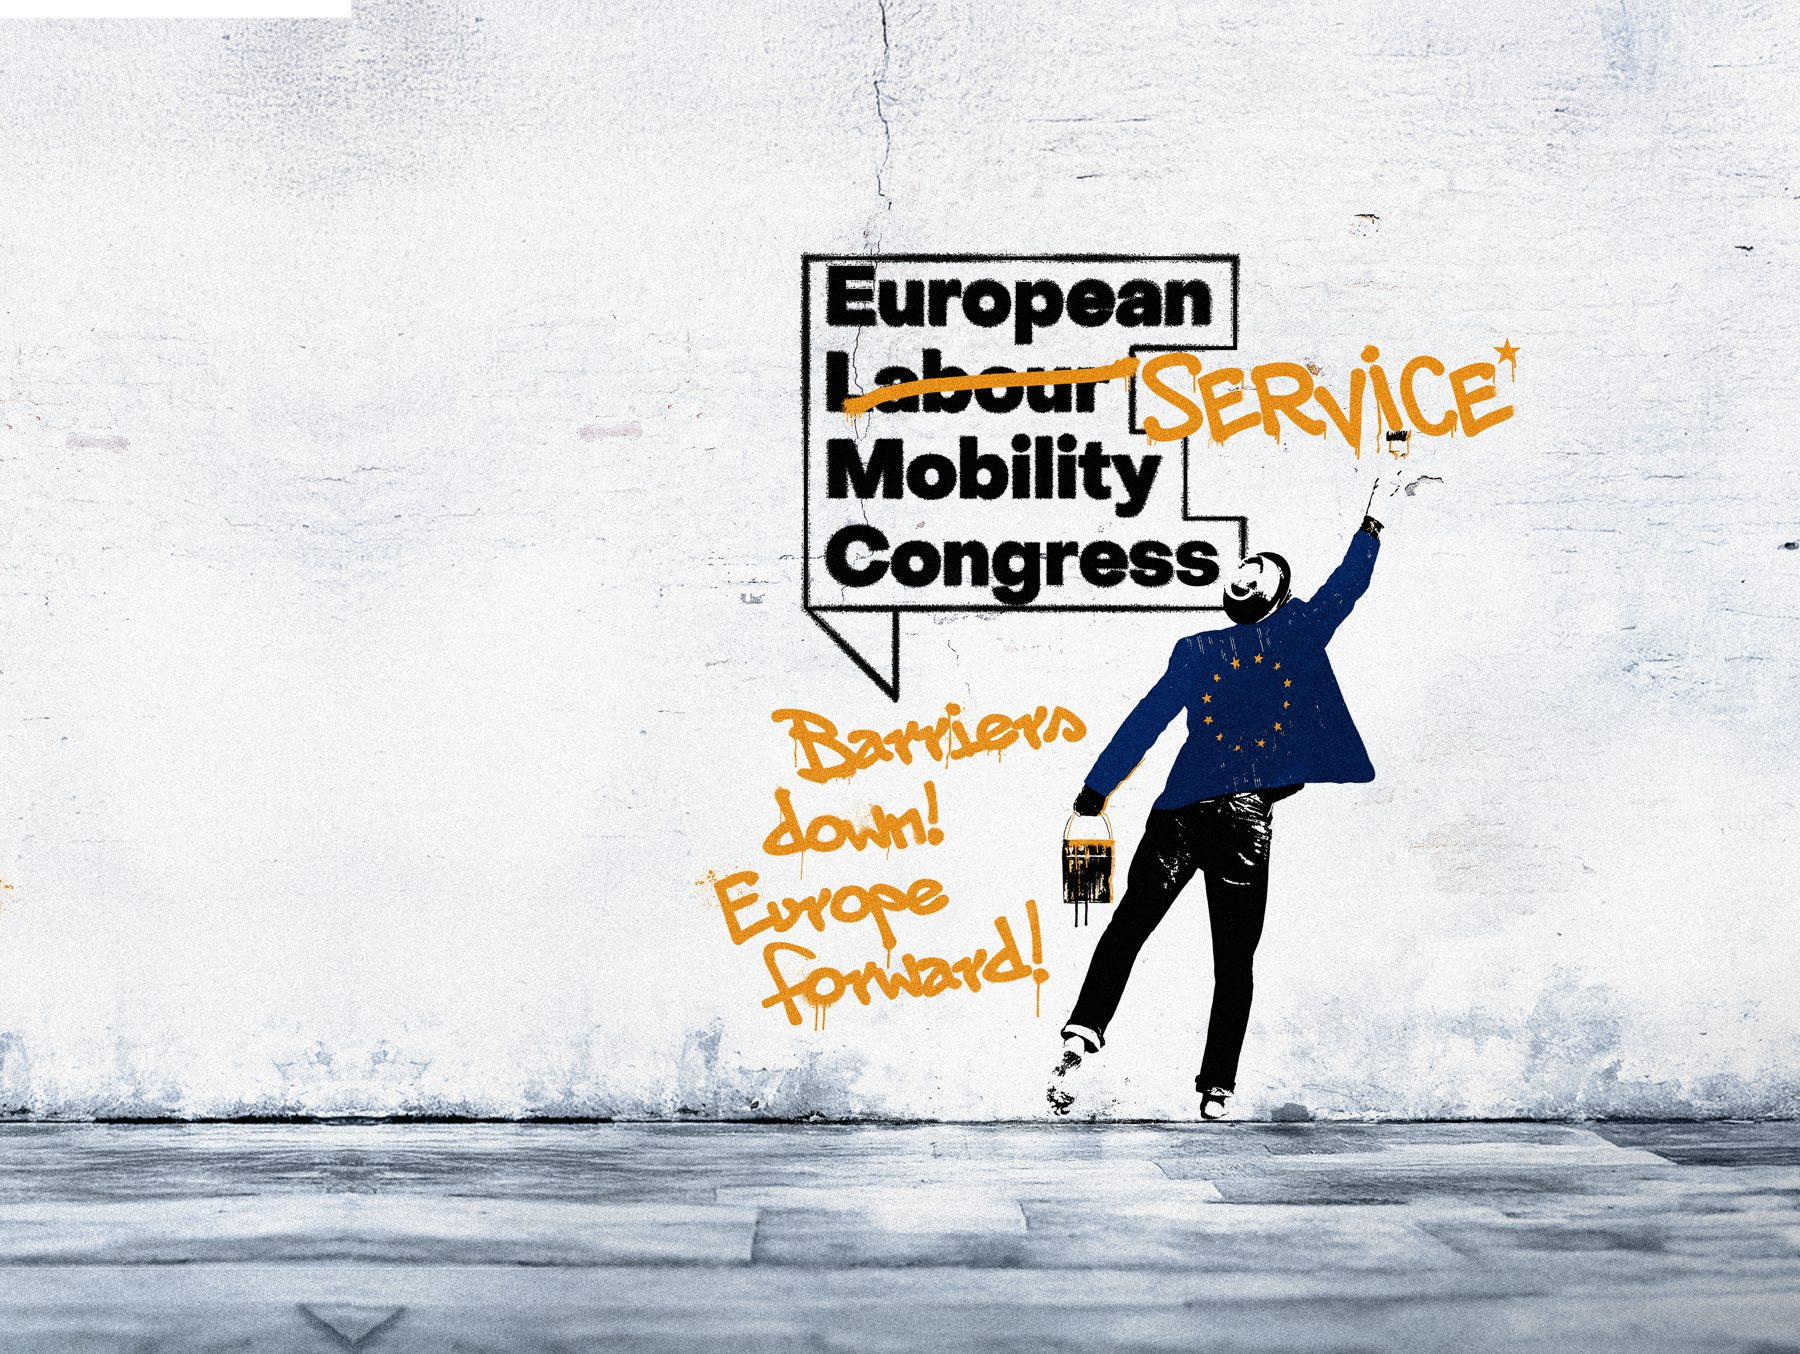
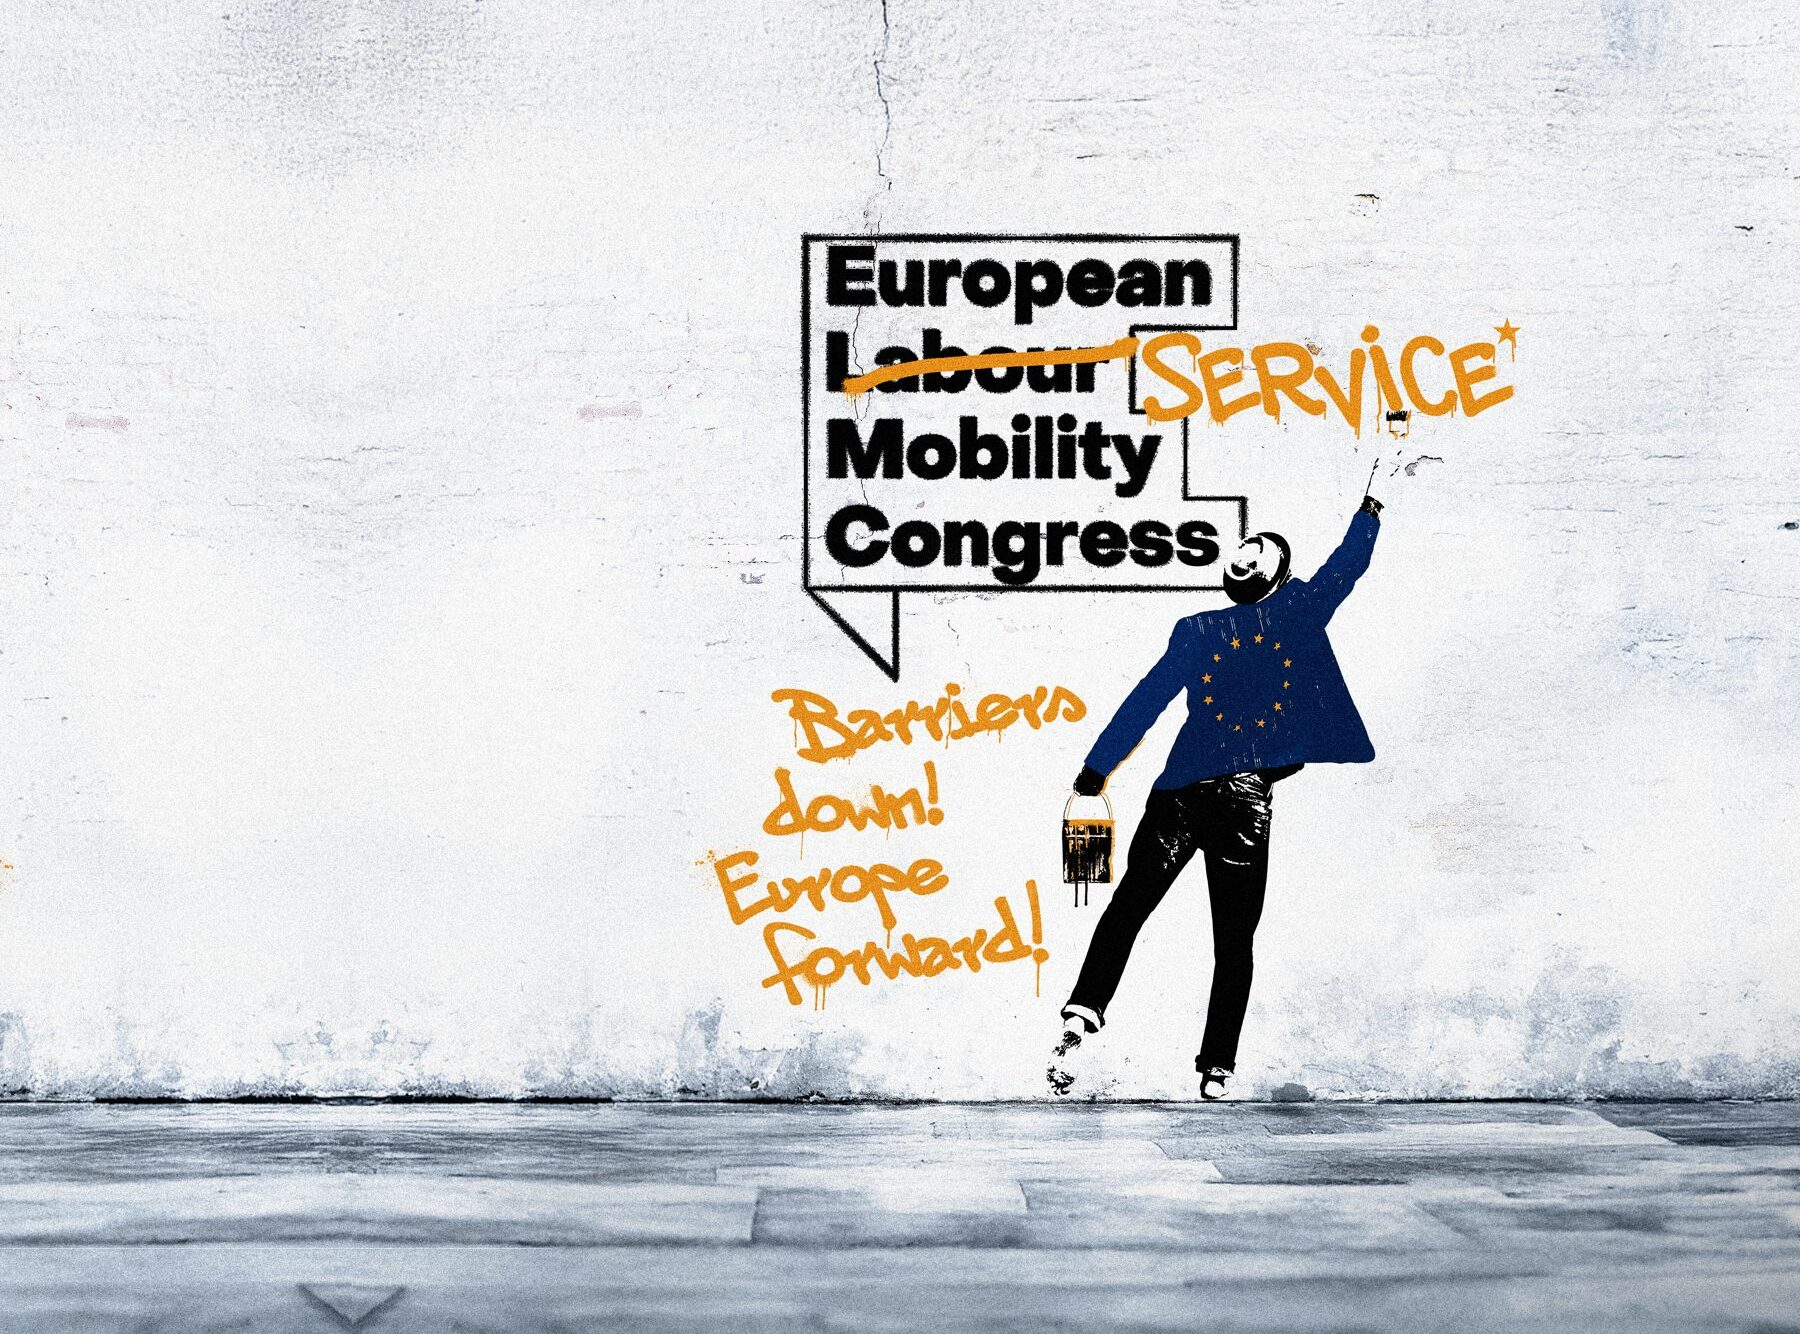
Szczegoly widoczne dla odwiedzajacych i wyszukiwarek
- Mural: WebP 57 kB na telefonie / 162 kB na komputerze zamiast 546 kB (JPG zostaje
  jako zapas, tez odchudzony); przyciety bialy pasek w lewym gornym rogu grafiki.
- Ikona strony (karta przegladarki, ekran telefonu, wyniki Google): logo na bialym tle.
- Karta do udostepniania 1200x630 (logo, haslo, postac z muralu) + wymiary, alt, locale,
  nazwa serwisu, karta Twittera/X.
- Opis dla Google krotszy i konkretny (osobny tekst PL/EN zamiast wstepu z formularza).
- Dane strukturalne: WebSite + wydawca ELMI (bez Event - brak daty i miejsca).
- Mapa strony i strony autorow nie pokazuja juz nazw kont administratorow.

diff --git a/theme/style.css b/theme/style.css
@@ -3,7 +3,7 @@ Theme Name: ELMC 2027
 Theme URI: https://elmc.eu
 Author: European Labour Mobility Institute
 Description: Motyw Europejskiego Kongresu Mobilności Pracy 2027 (dev.ekmp.pl). Dwujęzyczny PL/EN.
-Version: 0.7.0
+Version: 0.8.0
 Requires at least: 6.4
 Requires PHP: 8.0
 Text Domain: elmc2027

diff --git a/theme/inc/i18n.php b/theme/inc/i18n.php
@@ -114,12 +114,36 @@ add_filter( 'pre_get_document_title', function ( $title ) {
 add_action( 'wp_head', function () {
 	$is_home = is_front_page() || 'en' === get_query_var( 'elmc_lang' ) || 'teaser' === get_query_var( 'elmc_view' );
 	if ( $is_home ) {
-		printf( '<meta name="description" content="%s">' . "\n", esc_attr( elmc2027_t( 'heroLead' ) ) );
+		$lang = elmc2027_lang();
+		printf( '<meta name="description" content="%s">' . "\n", esc_attr( elmc2027_t( 'metaDesc' ) ) );
 		printf( '<meta property="og:title" content="%s">' . "\n", esc_attr( elmc2027_t( 'docTitle' ) ) );
-		printf( '<meta property="og:description" content="%s">' . "\n", esc_attr( elmc2027_t( 'heroLead' ) ) );
-		printf( '<meta property="og:image" content="%s">' . "\n", esc_url( get_template_directory_uri() . '/assets/img/kv-elmc.jpg' ) );
+		printf( '<meta property="og:description" content="%s">' . "\n", esc_attr( elmc2027_t( 'metaDesc' ) ) );
+		// Share card: 1200x630 crop of the mural (logo, slogan and the figure) - the size LinkedIn and Facebook expect.
+		printf( '<meta property="og:image" content="%s">' . "\n", esc_url( get_template_directory_uri() . '/assets/img/og-elmc.jpg' ) );
+		echo '<meta property="og:image:width" content="1200">' . "\n" . '<meta property="og:image:height" content="630">' . "\n";
+		printf( '<meta property="og:image:alt" content="%s">' . "\n", esc_attr( elmc2027_t( 'heroAlt' ) ) );
 		printf( '<meta property="og:url" content="%s">' . "\n", esc_url( elmc2027_page_url() ) );
 		echo '<meta property="og:type" content="website">' . "\n";
+		echo '<meta property="og:site_name" content="ELMC – European Labour Mobility Congress">' . "\n";
+		printf( '<meta property="og:locale" content="%s">' . "\n", 'en' === $lang ? 'en_GB' : 'pl_PL' );
+		printf( '<meta property="og:locale:alternate" content="%s">' . "\n", 'en' === $lang ? 'pl_PL' : 'en_GB' );
+		echo '<meta name="twitter:card" content="summary_large_image">' . "\n";
+		// Who stands behind the site, for search engines. No Event markup yet - it needs a date and a venue.
+		$data = array(
+			'@context'      => 'https://schema.org',
+			'@type'         => 'WebSite',
+			'name'          => 'European Labour Mobility Congress (ELMC)',
+			'alternateName' => 'Europejski Kongres Mobilności Pracy',
+			'url'           => elmc2027_home_url( 'pl' ),
+			'inLanguage'    => 'en' === $lang ? 'en' : 'pl',
+			'publisher'     => array(
+				'@type'         => 'Organization',
+				'name'          => 'European Labour Mobility Institute',
+				'alternateName' => 'Europejski Instytut Mobilności Pracy',
+				'url'           => 'https://labourinstitute.eu',
+			),
+		);
+		echo '<script type="application/ld+json">' . wp_json_encode( $data, JSON_UNESCAPED_UNICODE | JSON_UNESCAPED_SLASHES ) . '</script>' . "\n";
 	}
 	printf( '<link rel="alternate" hreflang="pl" href="%s">' . "\n", esc_url( elmc2027_page_url( 'pl' ) ) );
 	printf( '<link rel="alternate" hreflang="en" href="%s">' . "\n", esc_url( elmc2027_page_url( 'en' ) ) );

diff --git a/theme/functions.php b/theme/functions.php
@@ -47,6 +47,27 @@ add_action( 'wp_head', function () {
 	}
 }, 0 );
 
+// Icon in the browser tab, on phone home screens and next to the site in Google results
+// (the congress logo on white, so it stays visible in dark browser themes too).
+add_action( 'wp_head', function () {
+	$icons = get_template_directory_uri() . '/assets/icons/';
+	printf( '<link rel="icon" href="%s" sizes="48x48">' . "\n", esc_url( $icons . 'favicon.ico' ) );
+	printf( '<link rel="icon" type="image/png" sizes="32x32" href="%s">' . "\n", esc_url( $icons . 'favicon-32.png' ) );
+	printf( '<link rel="icon" type="image/png" sizes="192x192" href="%s">' . "\n", esc_url( $icons . 'icon-192.png' ) );
+	printf( '<link rel="apple-touch-icon" href="%s">' . "\n", esc_url( $icons . 'apple-touch-icon.png' ) );
+}, 2 );
+
+// The public sitemap and author pages would list the admin login names - keep both out.
+add_filter( 'wp_sitemaps_add_provider', function ( $provider, $name ) {
+	return 'users' === $name ? false : $provider;
+}, 10, 2 );
+add_action( 'template_redirect', function () {
+	if ( is_author() ) {
+		wp_safe_redirect( home_url( '/' ), 301 );
+		exit;
+	}
+} );
+
 /**
  * The building site must not show up in Google - otherwise dev.ekmp.pl would compete with
  * elmc.eu for the same text once the real address goes live. Applies only to this host.

diff --git a/theme/inc/copy.php b/theme/inc/copy.php
@@ -147,6 +147,7 @@ function elmc2027_copy( $lang = null ) {
 		'mailPrivacy'  => 'Jak przetwarzamy Twoje dane: ',
 		'mailSign'     => 'Europejski Kongres Mobilności Pracy',
 		'docTitle'     => 'ELMC 2027 – Europejski Kongres Mobilności Pracy',
+		'metaDesc'     => 'ELMC – Europejski Kongres Mobilności Pracy. Od 2013 roku forum o swobodzie świadczenia usług i delegowaniu pracowników w UE. Edycja 2027: zapisz się na powiadomienia.',
 	);
 
 	$en = array(
@@ -279,6 +280,7 @@ function elmc2027_copy( $lang = null ) {
 		'mailPrivacy'  => 'Information on how we process your data: ',
 		'mailSign'     => 'European Labour Mobility Congress',
 		'docTitle'     => 'ELMC 2027 – European Labour Mobility Congress',
+		'metaDesc'     => 'ELMC – European Labour Mobility Congress. Since 2013, the forum on the freedom to provide services and the posting of workers in the EU. 2027 edition: get notified.',
 	);
 
 	return 'en' === $lang ? $en : $pl;

diff --git a/theme/parts/hero.php b/theme/parts/hero.php
@@ -60,6 +60,10 @@
 		</div>
 	</div>
 	<div class="hero-art">
-		<img src="<?php echo esc_url( $assets . 'kv-elmc.jpg' ); ?>" alt="<?php echo esc_attr( $t['heroAlt'] ); ?>" width="1800" height="1354">
+		<?php // WebP: 57 kB on a phone, 162 kB on a desktop (the JPG is 500 kB and stays as a fallback). ?>
+		<picture>
+			<source type="image/webp" srcset="<?php echo esc_url( $assets . 'kv-elmc-900.webp' ); ?> 900w, <?php echo esc_url( $assets . 'kv-elmc-1400.webp' ); ?> 1400w" sizes="(max-width: 900px) 100vw, 50vw">
+			<img src="<?php echo esc_url( $assets . 'kv-elmc.jpg' ); ?>" alt="<?php echo esc_attr( $t['heroAlt'] ); ?>" width="1800" height="1334" fetchpriority="high">
+		</picture>
 	</div>
 </section>
